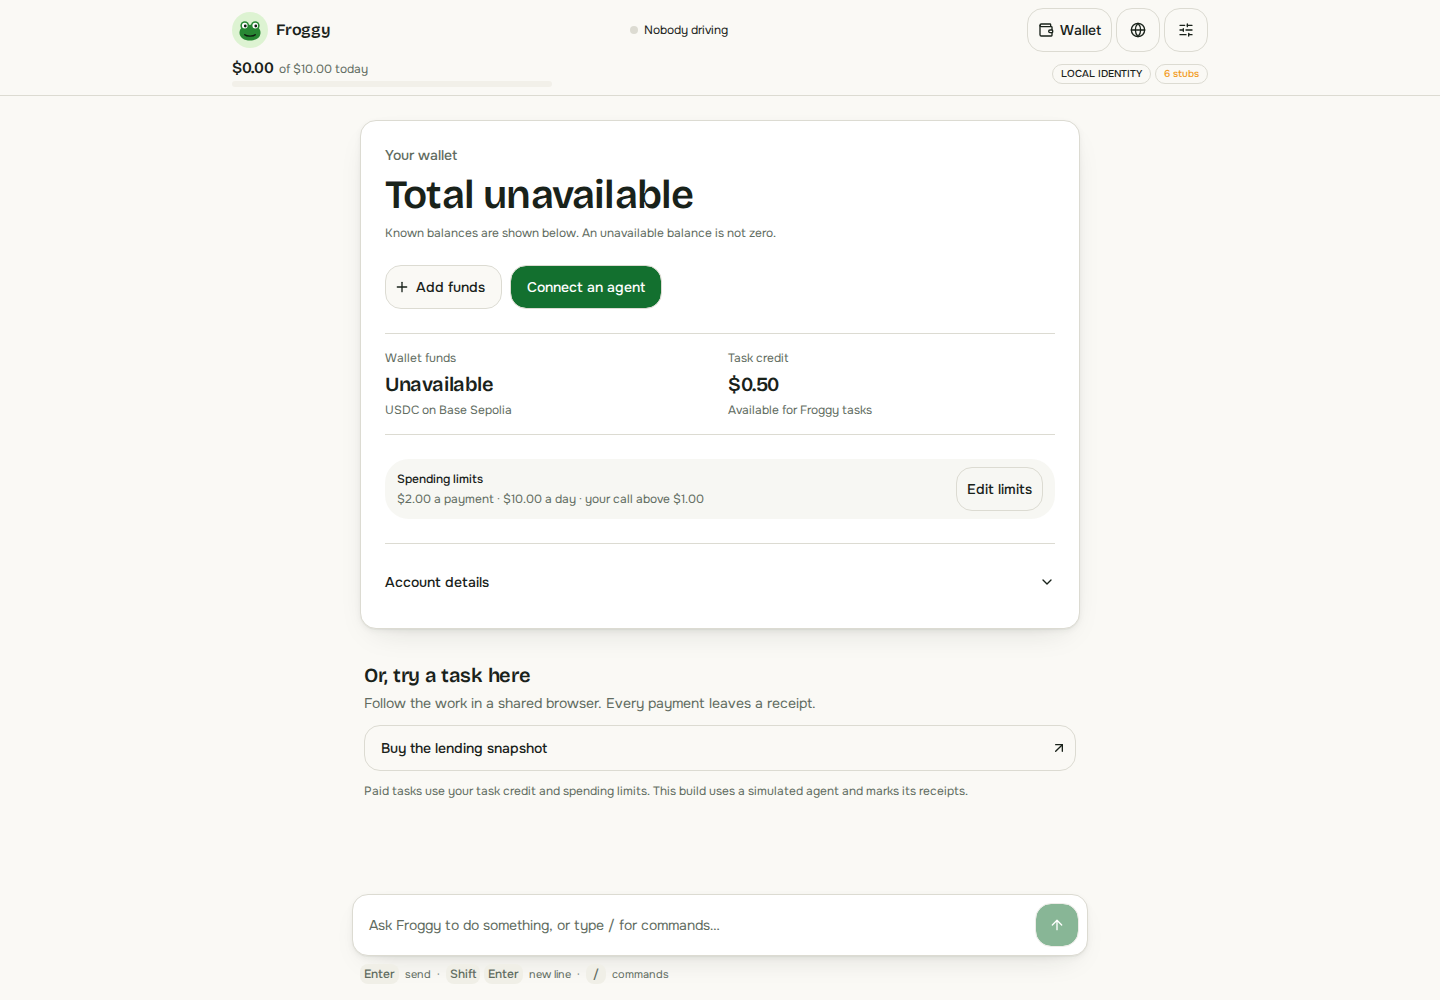
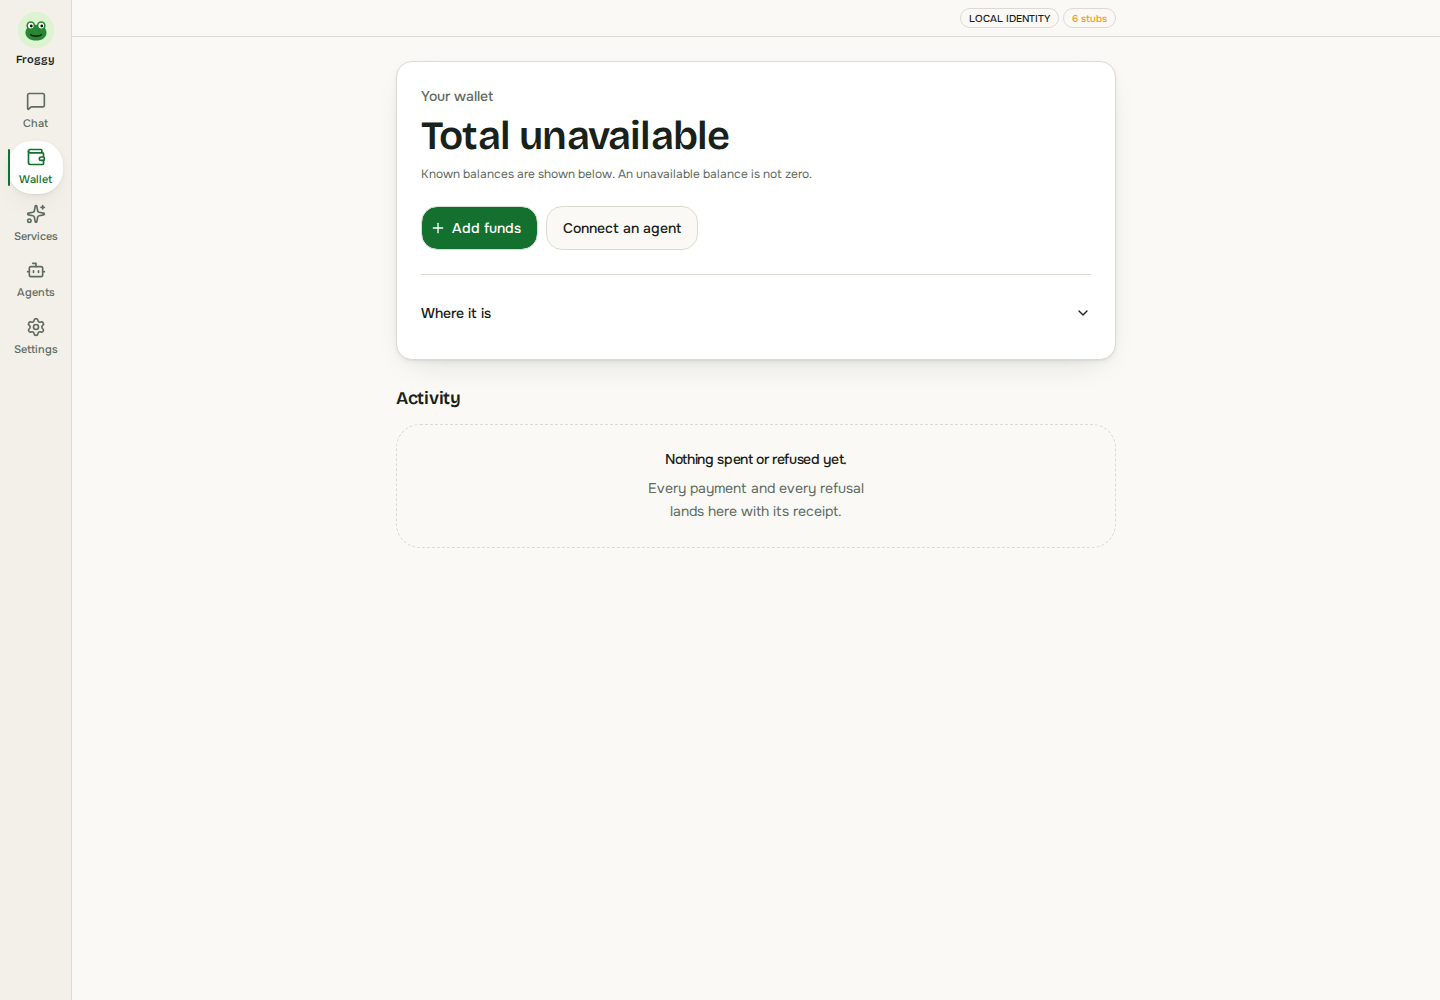
Walk every page at three widths in the browser tests, and record lane 2
A screens spec loads each of the five places at 1440, 768 and 390 and asserts
no page error and nothing wider than the viewport, leaving a picture of each;
the wallet and services shots replace the drawer-era evidence. The Agents
card says in a sentence when MCP is not answered here instead of showing a
truncated placeholder, the Telegram card no longer speaks of limits, and the
digest control has a proper target size. STATUS.md names what lanes 2 and 3
landed.

diff --git a/e2e/screens.spec.ts b/e2e/screens.spec.ts
@@ -1,0 +1,42 @@
+import { expect, test } from "@playwright/test";
+
+/**
+ * Every place, at three widths: no page error, nothing wider than the
+ * viewport, and a picture of each for the eye that the assertions lack.
+ */
+const PLACES = ["/", "/wallet", "/services", "/agents", "/settings"] as const;
+const SIZES = [
+  { width: 1440, height: 1000 },
+  { width: 768, height: 1024 },
+  { width: 390, height: 844 },
+] as const;
+
+for (const place of PLACES) {
+  for (const size of SIZES) {
+    test(`${place} holds together at ${size.width}px`, async ({
+      page,
+    }, testInfo) => {
+      const errors: string[] = [];
+      page.on("pageerror", (error) => {
+        errors.push(error.message);
+      });
+      await page.setViewportSize(size);
+      await page.goto(place);
+      await expect(
+        page.getByRole("navigation", { name: "Primary" }).getByRole("link")
+      ).toHaveCount(5);
+      expect(
+        await page.evaluate(
+          () => document.documentElement.scrollWidth <= window.innerWidth
+        )
+      ).toBe(true);
+      await page.screenshot({
+        fullPage: false,
+        path: testInfo.outputPath(
+          `${place === "/" ? "chat" : place.slice(1)}-${size.width}.png`
+        ),
+      });
+      expect(errors).toEqual([]);
+    });
+  }
+}

diff --git a/apps/web/src/components/agents/connect-by-url-card.tsx b/apps/web/src/components/agents/connect-by-url-card.tsx
@@ -66,17 +66,22 @@ export const ConnectByUrlCard = ({
       </CardDescription>
     </CardHeader>
     <CardContent className="flex flex-col gap-3">
-      <div className="flex flex-wrap items-center gap-2">
-        <Input
-          aria-label="MCP URL"
-          className="text-machine min-h-11 min-w-0 flex-1 select-all"
-          readOnly
-          value={mcpUrl ?? "Not available on this deployment"}
-        />
-        {mcpUrl === null ? null : (
+      {mcpUrl === null ? (
+        <p className="text-muted-foreground text-sm">
+          This deployment does not answer MCP clients yet. Use Telegram, or the
+          token path below.
+        </p>
+      ) : (
+        <div className="flex flex-wrap items-center gap-2">
+          <Input
+            aria-label="MCP URL"
+            className="text-machine min-h-11 min-w-0 flex-1 select-all"
+            readOnly
+            value={mcpUrl}
+          />
           <CopyButton label="Copy MCP URL" text={mcpUrl} />
-        )}
-      </div>
+        </div>
+      )}
       {mcpUrl === null ? null : (
         <div className="flex flex-col gap-2">
           <Steps title="Claude Code">

diff --git a/apps/web/src/components/settings/digest-settings.tsx b/apps/web/src/components/settings/digest-settings.tsx
@@ -64,13 +64,13 @@ export const DigestSettings = (): ReactElement => {
         <span>
           Daily digest
           <span className="text-muted-foreground block text-xs">
-            An unattended turn, once a day, under the same mandate. Nobody can
-            be asked, so anything over the threshold is refused.
+            An unattended turn, once a day, under the same rules. Nobody can be
+            asked, so a spend that needs your answer is refused.
           </span>
         </span>
         <select
           aria-label="Daily digest hour"
-          className="border-input h-8 rounded-lg border bg-transparent px-2 text-sm"
+          className="border-input min-h-11 rounded-lg border bg-transparent px-2 text-sm"
           disabled={schedule.isPending || save.isPending}
           onChange={(event) => {
             const hour =

diff --git a/apps/web/src/components/agents/telegram-settings.tsx b/apps/web/src/components/agents/telegram-settings.tsx
@@ -165,8 +165,8 @@ export const TelegramSettings = ({
       <div>
         <h3 className="font-medium">Telegram</h3>
         <p className="text-muted-foreground mt-1 text-xs">
-          Talk to Froggy and answer approval requests from your phone, using
-          this wallet’s limits.
+          Talk to Froggy and answer its questions from your phone, under the
+          same rules as here.
         </p>
       </div>
       {configured ? (

diff --git a/docs/plan/STATUS.md b/docs/plan/STATUS.md
@@ -161,3 +161,15 @@ The 7 Sep team sync (Kristjan, Jonas, Hemang) set nine decisions: one balance, s
 - **Worktree agent B (branch off `ea6fef4`):** lane 5, MCP OAuth 2.1 and `froggy login`: `packages/domain/src/oauth.ts`, `Store.oauth`, `apps/server/src/oauth.ts`, `router.ts`, `agents.ts`, `mcp.ts`, `tasks.ts`, `cli/froggy.ts`, `skill.ts`, two web routes `/oauth/authorize` and `/oauth/manual`, ADR 0012. Its migration is generated after merge, as 0009.
 
 Merges back to `main` are rebases by Session M, in the order the lanes finish.
+
+### Session M, Mon 7 Sep afternoon: lanes 2 and 3 landed on `main`
+
+- `9b2ad42` card, empty, alert and spinner primitives in `packages/ui`.
+- `71b55a5` the browser tests set an approval threshold on the app socket (`e2e/mandate.ts`) instead of through a drawer.
+- `4d4a5bc` five pages under one layout route (`apps/web/src/routes/workspace-layout.tsx`, contexts in `lib/workspace-context.ts` and `lib/chat-context.ts`), a rail on a desktop and a tab bar on a phone, one wallet total with the breakdown behind a disclosure, Add funds as one button, the policy tab, mandate editor, leash meter and task-credit form gone; specs walk the routes.
+- `9c0a16a` the words "pocket" and "top-up" leave every screen; the wallet status card and WebMCP read the one total; README updated.
+- `dc0bdb7` the services page redesigned: cards, one form, a task list, the chosen service in the URL.
+- `4c20408` the Agents page: connect by URL first (loud until `/mcp` answers), Telegram, the token path behind Advanced; the minted skill survives navigation.
+- `e2e/screens.spec.ts` walks every page at 1440, 768 and 390 (52 browser checks green); the wallet and services shots are in `docs/evidence/ui-wallet/`.
+
+Owner-visible on the live URL after deploy: `/wallet` shows one dollar total; `/services`, `/agents`, `/settings` are pages. Lane 4 (schedules, notify) and lane 5 (MCP OAuth, `froggy login`) continue in their worktrees.
